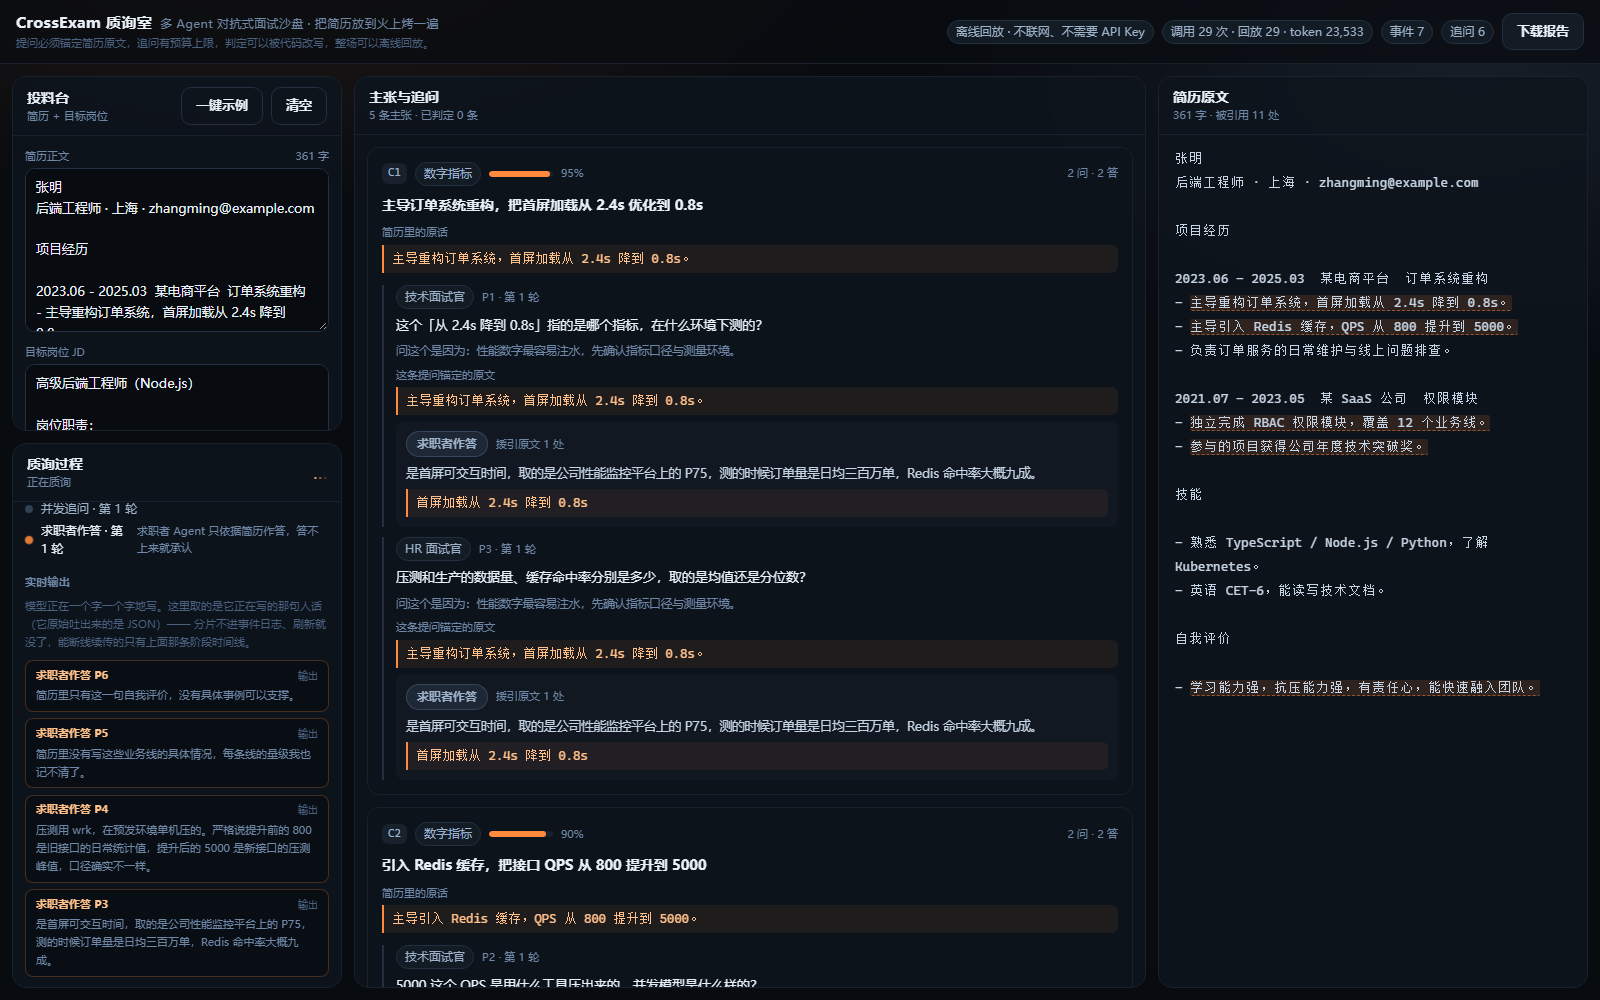
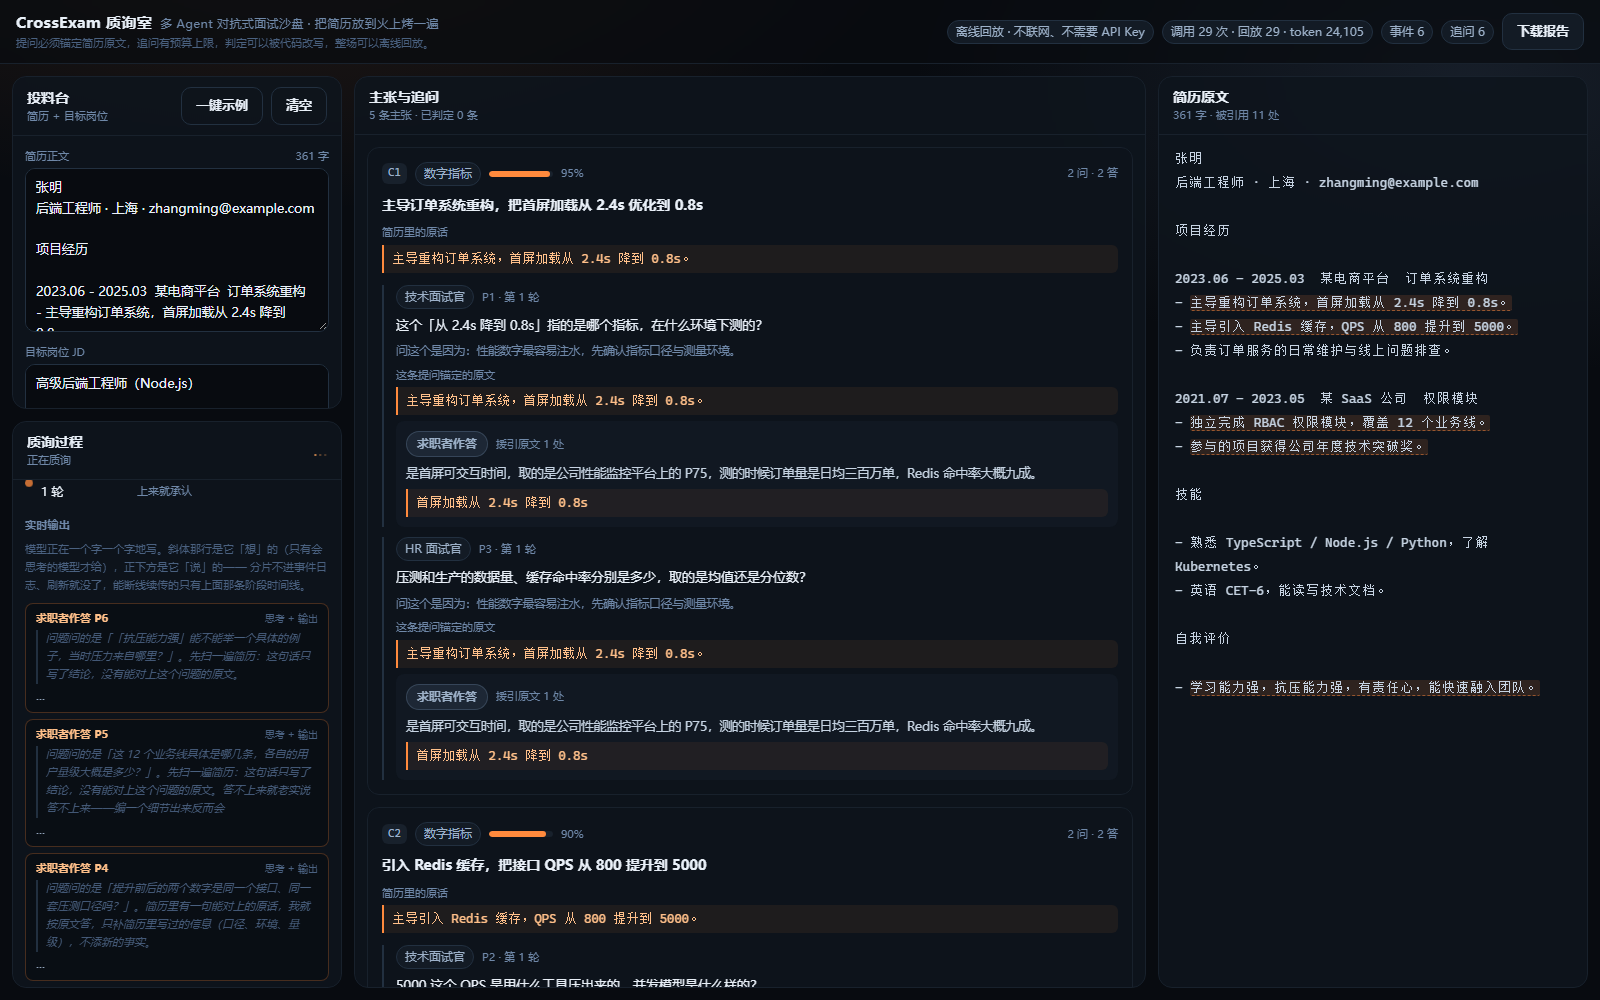
chore(tools): 截图器新增思考那一行，界面截图出到 11 张
思考行的窗口只有一两百毫秒，轮询必须塞进页面里才抓得到，因此用页面内 10 毫秒定时器等 live-reasoning 锚点有内容再拍。其余图整体改名到 06-11。

Changed region(s): [[0.0, 0.403, 0.2188, 0.961], [0.0938, 0.465, 0.125, 0.496]]

diff --git a/docs/screenshots/README.md b/docs/screenshots/README.md
@@ -12,12 +12,17 @@
 | 02-demo-loaded.png | 点过「一键示例」：简历 361 字、JD、面试官面板（技术/HR/业务主管）已就绪 |
 | 03-running.png | 直播中：第 1 轮三位面试官同时追问，回答还在「等待作答…」，左栏阶段时间线亮到「并发追问 · 第 1 轮」 |
 | 04-live-output.png | 直播中的「实时输出」栏：四路模型同时在写字，栏里显示的是它正在写的那句人话（它原始吐出来的是 JSON 分片） |
-| 05-done-top.png | 跑完后的顶部：调用 29 次 · 回放 29 · token 23,533，事件 18，追问 10；主张 C1 判定「站得住 · 依据 2 次追问」 |
-| 06-verdicts.png | 判定与反推：C5「证据缺失 · 代码收敛」并写出「这条判定不是模型直接给的」，下面是被锚定机制拦下的主张（引文在简历原文里找不到） |
-| 07-resume-focus.png | 点一条引文后右栏滚到锚点：「聚焦 → 第 81–108 字」，原文命中处高亮 |
-| 08-history.png | 左栏底部：播放节奏（即时/慢放）与历史会话列表——跑完的那一场带 `replay` 标记，可以随时翻回来重看过程 |
-| 09-contracts.png | 左栏「意图契约」：技术面试官的契约摊开（人设 / 目标 / 手法 / 禁区 / 共同约束 / 追问预算），徽章写着「与运行时一致 · 指纹 b2171c82」 |
-| 10-system-prompt.png | 同一位面试官实际拿到的 System Prompt 原文——由契约确定性渲染，界面显示的与送进模型的是同一份 |
+| 05-thinking.png | 同一栏的「思考 + 输出」两行：斜体那行是模型的思考（`reasoning` 分片），正下方是它的正文——两个通道分开推、分开渲染 |
+| 06-done-top.png | 跑完后的顶部：调用 29 次 · 回放 29 · token 24,105，事件 18，追问 10；主张 C1 判定「站得住 · 依据 2 次追问」 |
+| 07-verdicts.png | 判定与反推：C5「证据缺失 · 代码收敛」并写出「这条判定不是模型直接给的」，下面是被锚定机制拦下的主张（引文在简历原文里找不到） |
+| 08-resume-focus.png | 点一条引文后右栏滚到锚点：「聚焦 → 第 81–108 字」，原文命中处高亮 |
+| 09-history.png | 左栏底部：播放节奏（即时/慢放）与历史会话列表——跑完的那一场带 `replay` 标记，可以随时翻回来重看过程 |
+| 10-contracts.png | 左栏「意图契约」：技术面试官的契约摊开（人设 / 目标 / 手法 / 禁区 / 共同约束 / 追问预算），徽章写着「与运行时一致 · 指纹 b2171c82」 |
+| 11-system-prompt.png | 同一位面试官实际拿到的 System Prompt 原文——由契约确定性渲染，界面显示的与送进模型的是同一份 |
+
+其中 04-live-output.png 与 05-thinking.png 是**回放模式**下拍的（`npm run shots` 为了零 Key 可复跑，一律用示例卡带）：
+分片由回放端按 24 字软切生成，思考那一行来自合成脚本写在卡带里的 `reasoning` 字段。真实联网下同一栏由 SSE 的 `event: stream` 填充：
+正文分片来自模型输出，思考分片来自思考模型的 `reasoning_content`——2026-10-26 实测一场 5814 片正文 / 2355 片思考 / 8 路 `verdict:*` 通道，且分片都不进事件表（见 docs/adr/0004、docs/adr/0005、findings F22）。
 
 所有画面用的都是内置示例简历（合成素材），不含任何真实个人简历。
 
